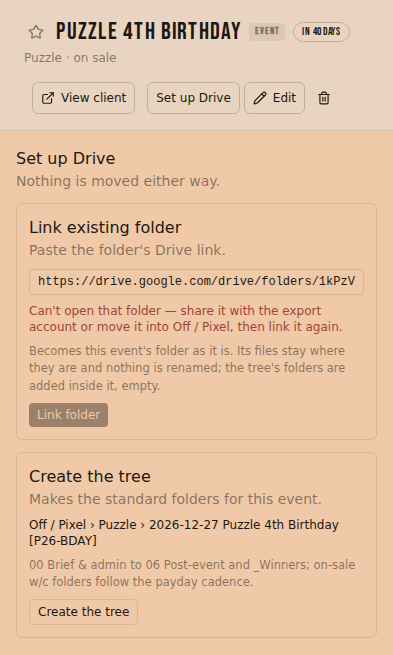
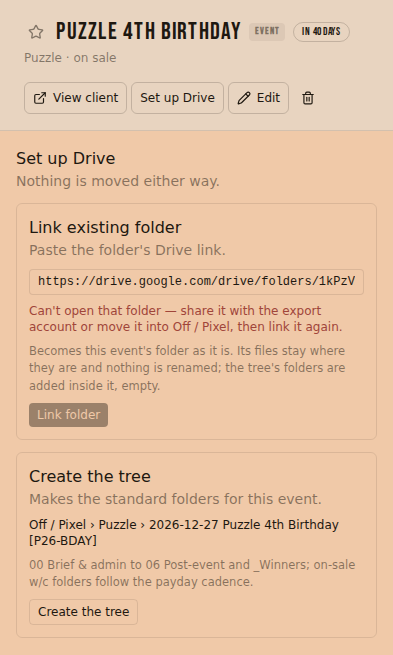
Even the 393 header and mount the live claim ladder (#1149)
* Even out the 393 event header and mount the live claim ladder.

Date inputs in the frame runner follow en-GB, and the offer card uses the operator's name rather than a user id.

* Render the frame runner in en-GB so a date input shows the day first.

A page locale left the native date field on mm/dd/yyyy; the job locale is what Chromium uses.

* Keep the frame baselines with the live ladder and the en-GB date field.

The 393 event header, the claim ladder and the offer sheet's date input are the rows that moved.

* Draw Puzzle's own ladder, with the record's sub-lines and a counted footer.

AB5 was mounting the seed, so the header said Puzzle's own over a 7-day ladder, and the footer counted 13 of 14 rows.

* Keep the AB5 baselines with Puzzle's ladder.

The pair of Ubuntu runs matched, and both widths grew to fit the sub-lines.

---------

Changed region(s): [[0.0611, 0.1221, 0.855, 0.1832]]

diff --git a/lib/releases/__tests__/bank.test.ts b/lib/releases/__tests__/bank.test.ts
@@ -6,10 +6,11 @@ import { boardCounts, makeMissing, type BoardCell } from "../board.ts";
 import { backfillReleases, deriveSaleDates } from "../dates.ts";
 import { applyCount, applyState, freshness, releaseHeadline } from "../entry.ts";
 import { defaultLadder, puzzleLadder } from "../ladder.ts";
+import { presentLadder } from "../present.ts";
 import type { Release, TicketWarning } from "../types.ts";
 import { approveWarning, backToHeld, claimWindow, notNow, paydayPush, todaySentence } from "../windows.ts";
 import { countdownRung, lineupRung, percentStandIn, priceRiseRung, velocityRung } from "../derived.ts";
-import { OFFER_MARKER, OFFER_ON_LADDER, OFFER_REFUSAL, offerPrices, offerRefusal, offerWords } from "../offers.ts";
+import { OFFER_MARKER, OFFER_ON_LADDER, OFFER_REFUSAL, enteredByLine, enteredByWhen, offerPrices, offerRefusal, offerWords, operatorDisplayName } from "../offers.ts";
 import { liveClaimLine, rollCallWords, soldOutLine } from "../roll-call.ts";
 import { isBackfilled, mountsReleases, panelFigure, todayListsEvent, warningCell } from "../visibility.ts";
 import { derivedProposals, nextRung, proposalOnChange } from "../../ticket-warnings/next-rung.ts";
@@ -416,6 +417,16 @@ describe("offers, cancelled, backfilled", () => {
     assert.deepEqual(offerPrices({ today: 10, parts: 3 }), [10]);
   });
 
+  it("names the operator on the offer card and never the user id", () => {
+    const at = new Date("2026-11-08T14:10:00Z");
+    const id = "11111111-1111-1111-1111-111111111111";
+    assert.equal(enteredByLine("Matas", at), "entered by Matas, 8 Nov");
+    assert.equal(enteredByWhen(at).wide, "Sun 8 Nov 14:10");
+    assert.equal(enteredByLine(id, at), null);
+    assert.equal(operatorDisplayName({ id, user_metadata: { full_name: "Matas" } }), "Matas");
+    assert.equal(operatorDisplayName({ id, user_metadata: { name: id } }), null);
+  });
+
   it("keeps a cancelled event's rows and mounts no panel and no Today row", () => {
     const rows = [release({ name: "General sale", position: 1, state: "on_sale" })];
     assert.equal(mountsReleases("cancelled"), false);
@@ -517,5 +528,22 @@ describe("approval, windows, the board", () => {
     assert.deepEqual(makeMissing(cells), { made: 0, said: "Nothing to make. The missing cells need a piece." });
     const ready = [{ status: "missing" as const, makeable: true }, { status: "missing" as const, makeable: false }];
     assert.equal(makeMissing(ready).made, 1);
+  });
+
+  it("AB5 draws Puzzle's ladder with the record's sub-lines and a quoted claim on every rung", () => {
+    const rows = presentLadder(puzzleLadder());
+    assert.equal(rows.length, 14);
+    assert.equal(rows[1]!.trigger, "Selling fast for 5+ days, no count");
+    assert.equal(rows[1]!.detail, "Puzzle: 5 days (default 7)");
+    assert.equal(rows[0]!.detail, "from the release time, or a read / entry");
+    assert.equal(rows[2]!.detail, "when a count and a capacity exist");
+    assert.equal(rows.find((row) => row.trigger.startsWith("2+ releases"))!.detail, "roll-call · preferred over the % rung");
+    assert.equal(rows.find((row) => row.trigger.startsWith("Sold now"))!.detail, "sales velocity · needs two counts · window and count per client");
+    assert.equal(rows.find((row) => row.trigger === "State final X")!.note, "X from the page or the count, never typed");
+    assert.equal(rows.find((row) => row.trigger.startsWith("Next release"))!.note, "qualifier \"LAST CHANCE AT £{n}\" when the release has a price");
+    assert.equal(rows.at(-1)!.note, "refreshes the lineup slot and every ALONGSIDE: list");
+    assert.ok(rows.every((row) => row.claim.includes("\"")));
+    assert.equal(presentLadder(defaultLadder())[1]!.trigger, "Selling fast for 7+ days, no count");
+    assert.equal(presentLadder(defaultLadder())[1]!.detail, undefined);
   });
 });

diff --git a/components/dashboard/asset-bank/surface.tsx b/components/dashboard/asset-bank/surface.tsx
@@ -5,7 +5,7 @@ import { useState, type FormEvent, type ReactNode } from "react";
 import { driveFileUrl } from "@/lib/drive/panel";
 import { Button } from "@/components/ui/button";
 import { isInPaydayWindow } from "@/lib/dashboard/pacing";
-import { offerRefusal, offerWords, type OfferFigures, type OfferKind } from "@/lib/releases/offers";
+import { enteredByLine, enteredByWhen, offerRefusal, offerWords, type OfferFigures, type OfferKind } from "@/lib/releases/offers";
 import { paydayPush } from "@/lib/releases/windows";
 import { RELEASE_STATES, type ReleaseState } from "@/lib/releases/types";
 
@@ -341,12 +341,19 @@ function Piece() {
   );
 }
 
+const OFFER_ENTERED_AT = new Date("2026-11-08T14:10:00Z");
+
 export function ClaimCards({
   onCorrect,
+  enteredBy = "Matas",
 }: {
   onCorrect?: (state: ReleaseState) => void;
+  /** The operator's name. A user id is left off the card. */
+  enteredBy?: string | null;
 }) {
   const [correcting, setCorrecting] = useState(false);
+  const entered = enteredByLine(enteredBy, OFFER_ENTERED_AT);
+  const when = enteredByWhen(OFFER_ENTERED_AT);
   return (
     <div className="space-y-3">
       <p className="text-xs text-muted-foreground">
@@ -396,13 +403,13 @@ export function ClaimCards({
           </p>
           <p className="mt-1 hidden text-xs sm:block">
             <span className="text-muted-foreground">offer</span> payment plan · £10 today, 3 parts · until Fri 27 Nov{" "}
-            <span className="text-muted-foreground">entered by</span> Matas, Sun 8 Nov 14:10, from the Offers sheet
+            {entered && enteredBy ? <><span className="text-muted-foreground">entered by</span>{` ${enteredBy}, ${when.wide}, from the Offers sheet`}</> : null}
           </p>
           <p className="mt-1 hidden text-xs sm:block">
             <span className="text-muted-foreground">words</span> &quot;£10 TODAY&quot; / &quot;SPLIT THE REST IN 3&quot; · no scarcity words · £10 is a price the validator checks against the offer
           </p>
           <p className="mt-1 text-xs sm:hidden">
-            <span className="text-muted-foreground">entered by</span> Matas, 8 Nov · until 27 Nov
+            {entered && enteredBy ? <><span className="text-muted-foreground">entered by</span>{` ${enteredBy}, ${when.day} · until 27 Nov`}</> : null}
           </p>
           <p className="mt-1 hidden text-xs text-muted-foreground sm:block">No read makes an offer true, so there is no trigger line. Runs mid-month as content-led (A7) unless Matas sets a window. Formats: 4:5 and 1:1 statics (T2, the number on its own line at 1.5×).</p>
         </div>
@@ -852,14 +859,14 @@ export function ClaimLadder({ live, initial, resetTo, onReset }: { live?: boolea
                     <span className="hidden sm:inline">{row.claim}</span>
                   </div>
                 )}
-                {row.note ? <div className="mt-0.5 hidden text-[10.5px] text-muted-foreground sm:block">{row.note}</div> : null}
+                {row.note ? <div className="mt-0.5 text-[10.5px] text-muted-foreground">{row.note}</div> : null}
               </button>
             </div>
           ))}
         </div>
         <p className="mt-3 text-[11px] text-muted-foreground">
           <span className="hidden sm:inline">edit a cell to change Puzzle&apos;s ladder · every approved claim records which rung allowed it · offers are not rungs: see Offers</span>
-          <span className="sm:hidden">tap a cell to edit · 13 rungs · offers are not rungs</span>
+          <span className="sm:hidden">tap a cell to edit · {rows.length} rungs · offers are not rungs</span>
         </p>
       </section>
       <section className="hidden rounded-md border border-border bg-card p-4 sm:block">

diff --git a/lib/releases/present.ts b/lib/releases/present.ts
@@ -1,0 +1,70 @@
+import type { LadderRung } from "./types.ts";
+
+export type PresentedRung = {
+  trigger: string;
+  claim: string;
+  detail?: string;
+  narrowDetail?: string;
+  note?: string;
+  accent?: boolean;
+};
+
+function claimCell(rung: LadderRung): string {
+  if (rung.triggerKind === "roll_call" || rung.triggerValue === "roll_call") {
+    return "\"{sold-out releases} RELEASE SOLD OUT\" / \"{live release's claim}\"";
+  }
+  if (rung.triggerKind === "countdown_pct") return "\"LESS THAN 2 WEEKS TO GO\" / \"OVER 90% SOLD OUT\"";
+  return `"${rung.claimTemplate}"`;
+}
+
+function triggerLabel(rung: LadderRung): string {
+  if (rung.triggerKind === "roll_call" || rung.triggerValue === "roll_call") return "2+ releases sold out · 1 on sale or selling fast";
+  if (rung.triggerKind === "velocity") return `Sold now − sold ${rung.options.windowDays ?? 14} days ago ≥ ${rung.options.threshold ?? rung.triggerValue}`;
+  if (rung.triggerKind === "price_rise_date") return `Next release's list time within ${rung.options.days ?? 4} days`;
+  if (rung.triggerKind === "countdown_pct") return `Days to show ≤ ${rung.options.days ?? 14} · and the % rung's trigger met`;
+  if (rung.triggerKind === "lineup_add") return "A new row in the typed lineup";
+  if (rung.triggerKind === "count_pct") return `Actual ${rung.triggerValue}% sold`;
+  if (rung.triggerValue === "on_sale") return "Release list time passed · state on sale";
+  if (rung.triggerValue === "selling_fast") return `Selling fast for ${rung.options.days ?? 7}+ days, no count`;
+  if (rung.triggerValue === "final_x") return "State final X";
+  if (rung.triggerValue === "sold_out") return "State sold out";
+  if (rung.triggerKind === "page_remaining") return "The page shows remaining";
+  return rung.claimTemplate;
+}
+
+function withDetail(detail: string): Pick<PresentedRung, "detail" | "narrowDetail"> {
+  return { detail, narrowDetail: detail };
+}
+
+/** The record's sub-lines, on the live rung they describe. Both widths show them. */
+function rungCopy(rung: LadderRung): Pick<PresentedRung, "detail" | "narrowDetail" | "note" | "accent"> {
+  if (rung.triggerValue === "on_sale") return withDetail("from the release time, or a read / entry");
+  if (rung.triggerValue === "selling_fast" && (rung.options.days ?? 7) === 5) return withDetail("Puzzle: 5 days (default 7)");
+  if (rung.triggerKind === "count_pct" && rung.triggerValue === "50") return withDetail("when a count and a capacity exist");
+  if (rung.triggerValue === "final_x") return { note: "X from the page or the count, never typed" };
+  if (rung.triggerKind === "roll_call" || rung.triggerValue === "roll_call") {
+    return {
+      ...withDetail("roll-call · preferred over the % rung"),
+      note: "two lines · the names from the releases, in order · line 2 is the live release's own rung",
+      accent: true,
+    };
+  }
+  if (rung.triggerKind === "velocity") return withDetail("sales velocity · needs two counts · window and count per client");
+  if (rung.triggerKind === "price_rise_date") {
+    return {
+      ...withDetail("price increase on a date"),
+      note: "qualifier \"LAST CHANCE AT £{n}\" when the release has a price",
+    };
+  }
+  if (rung.triggerKind === "lineup_add") return { note: "refreshes the lineup slot and every ALONGSIDE: list" };
+  return {};
+}
+
+/** AB5's live ladder: Puzzle's wording, the record's sub-lines, every claim in quotes. */
+export function presentLadder(rungs: readonly LadderRung[]): PresentedRung[] {
+  return rungs.map((rung) => ({
+    trigger: triggerLabel(rung),
+    claim: claimCell(rung),
+    ...rungCopy(rung),
+  }));
+}

diff --git a/components/dashboard/asset-bank/live.tsx b/components/dashboard/asset-bank/live.tsx
@@ -2,10 +2,11 @@
 
 import { useState } from "react";
 
-import { ClaimLadder, ReleasesPanel, type LadderRow } from "@/components/dashboard/asset-bank/surface";
+import { ClaimLadder, ReleasesPanel } from "@/components/dashboard/asset-bank/surface";
 import { nextReleaseListAt } from "@/lib/releases/derived";
 import { rowsFromReleases } from "@/lib/releases/view";
 import { completeLadder, defaultLadder } from "@/lib/releases/ladder";
+import { presentLadder } from "@/lib/releases/present";
 import type { LadderRung, Release, ReleaseState } from "@/lib/releases/types";
 import { isBackfilled, mountsReleases } from "@/lib/releases/visibility";
 import { derivedProposals, nextRung, sellingFastDays, type DerivedContext } from "@/lib/ticket-warnings/next-rung";
@@ -92,39 +93,8 @@ export function LiveReleases({
   );
 }
 
-function claimCell(rung: LadderRung): string {
-  if (rung.triggerKind === "roll_call" || rung.triggerValue === "roll_call") {
-    return "\"{sold-out releases} RELEASE SOLD OUT\" / \"{live release's claim}\"";
-  }
-  return rung.claimTemplate;
-}
-
-function triggerLabel(rung: LadderRung): string {
-  if (rung.triggerKind === "roll_call" || rung.triggerValue === "roll_call") return "2+ releases sold out · 1 on sale or selling fast";
-  if (rung.triggerKind === "velocity") return `Sold now − sold ${rung.options.windowDays ?? 14} days ago ≥ ${rung.options.threshold ?? rung.triggerValue}`;
-  if (rung.triggerKind === "price_rise_date") return `Next release's list time within ${rung.options.days ?? 4} days`;
-  if (rung.triggerKind === "countdown_pct") return `Days to show ≤ ${rung.options.days ?? 14} · and the % rung's trigger met`;
-  if (rung.triggerKind === "lineup_add") return "A new row in the typed lineup";
-  if (rung.triggerKind === "count_pct") return `Actual ${rung.triggerValue}% sold`;
-  if (rung.triggerValue === "on_sale") return "Release list time passed · state on sale";
-  if (rung.triggerValue === "selling_fast") return `Selling fast for ${rung.options.days ?? 7}+ days, no count`;
-  if (rung.triggerValue === "final_x") return "State final X";
-  if (rung.triggerValue === "sold_out") return "State sold out";
-  if (rung.triggerKind === "page_remaining") return "The page shows remaining";
-  return rung.claimTemplate;
-}
-
 export function LiveLadder({ rungs }: { rungs: LadderRung[] }) {
-  const shown = completeLadder(rungs);
-  const initial: LadderRow[] = shown.map((rung) => ({
-    trigger: triggerLabel(rung),
-    claim: claimCell(rung),
-    accent: rung.triggerKind === "roll_call",
-  }));
-  const seed: LadderRow[] = defaultLadder().map((rung) => ({
-    trigger: triggerLabel(rung),
-    claim: claimCell(rung),
-    accent: rung.triggerKind === "roll_call",
-  }));
-  return <ClaimLadder live initial={initial.length ? initial : seed} resetTo={seed} />;
+  const shown = presentLadder(completeLadder(rungs));
+  const seed = presentLadder(defaultLadder());
+  return <ClaimLadder live initial={shown.length ? shown : seed} resetTo={seed} />;
 }

diff --git a/lib/releases/offers.ts b/lib/releases/offers.ts
@@ -39,3 +39,33 @@ export function offerWords(kind: OfferKind, figures: OfferFigures): { lines: str
 export function offerPrices(figures: OfferFigures): number[] {
   return [figures.today, figures.price].filter((price): price is number => price != null);
 }
+
+const USER_ID = /^[0-9a-f]{8}-[0-9a-f]{4}-[0-9a-f]{4}-[0-9a-f]{4}-[0-9a-f]{12}$/i;
+
+/** The name on the offer card. A user id is never a name. */
+export function operatorDisplayName(user: { id?: string | null; user_metadata?: Record<string, unknown> | null }): string | null {
+  const meta = user.user_metadata ?? {};
+  for (const key of ["full_name", "name"]) {
+    const value = meta[key];
+    if (typeof value !== "string") continue;
+    const name = value.trim();
+    if (!name || name === user.id || USER_ID.test(name)) continue;
+    return name;
+  }
+  return null;
+}
+
+/** "8 Nov" and "Sun 8 Nov 14:10". London, so the card matches the sheet. */
+export function enteredByWhen(at: Date): { day: string; wide: string } {
+  const day = new Intl.DateTimeFormat("en-GB", { day: "numeric", month: "short", timeZone: "Europe/London" }).format(at);
+  const weekday = new Intl.DateTimeFormat("en-GB", { weekday: "short", timeZone: "Europe/London" }).format(at);
+  const time = new Intl.DateTimeFormat("en-GB", { hour: "2-digit", minute: "2-digit", hourCycle: "h23", timeZone: "Europe/London" }).format(at);
+  return { day, wide: `${weekday} ${day} ${time}` };
+}
+
+/** "entered by Matas, 8 Nov". Null when the only identity on hand is the user id. */
+export function enteredByLine(name: string | null | undefined, at: Date): string | null {
+  const who = name?.trim() ?? "";
+  if (!who || USER_ID.test(who)) return null;
+  return `entered by ${who}, ${enteredByWhen(at).day}`;
+}

diff --git a/components/dashboard/events/event-detail-header.tsx b/components/dashboard/events/event-detail-header.tsx
@@ -45,6 +45,8 @@ export function EventDetailHeader(props: {
     lab?.paydayLabel ? `Next payday ${lab.paydayLabel}.${lab.daysToEvent == null ? "" : ` ${lab.daysToEvent} days to the event.`}` : null,
   ].filter(Boolean).join(" · ");
   const label = "shrink-0 whitespace-nowrap max-[700px]:px-2";
+  // The link is only the hit target. Padding stays on the button, or the
+  // 393 row gains about 8px between View client and Drive folder.
   return (
     <header className="border-b border-border bg-card px-6 py-4">
       <div className="mx-auto flex max-w-6xl items-center justify-between gap-4 max-[700px]:flex-col max-[700px]:items-stretch">
@@ -89,7 +91,7 @@ export function EventDetailHeader(props: {
         <div className="flex items-center gap-2 max-[700px]:flex-nowrap max-[700px]:gap-1">
           <InsightsPill />
           {event.client ? (
-            <Link href={`/clients/${event.client.id}`} className={label}>
+            <Link href={`/clients/${event.client.id}`} className="shrink-0 whitespace-nowrap">
               <Button variant="outline" size="sm" className={label}>
                 <ExternalLink className="h-3.5 w-3.5" />
                 View client

diff --git a/app/api/events/[id]/offers/route.ts b/app/api/events/[id]/offers/route.ts
@@ -1,7 +1,7 @@
 import { NextResponse } from "next/server";
 
 import { insertOffer } from "@/lib/db/releases";
-import { offerRefusal, offerWords, type OfferFigures, type OfferKind } from "@/lib/releases/offers";
+import { offerRefusal, offerWords, operatorDisplayName, type OfferFigures, type OfferKind } from "@/lib/releases/offers";
 import { createClient } from "@/lib/supabase/server";
 
 const KINDS = new Set<OfferKind>(["payment_plan", "group", "early_entry"]);
@@ -52,5 +52,5 @@ export async function POST(request: Request, context: { params: Promise<{ id: st
     const message = err instanceof Error ? err.message : "Could not save the offer.";
     return NextResponse.json({ error: message }, { status: 500 });
   }
-  return NextResponse.json({ ok: true });
+  return NextResponse.json({ ok: true, enteredBy: operatorDisplayName(user) });
 }

diff --git a/components/dashboard/asset-bank/frame-mount.tsx b/components/dashboard/asset-bank/frame-mount.tsx
@@ -1,4 +1,6 @@
-import { AssetBoard, ClaimCards, ClaimLadder, OffersSheet, PaydayCalendar, ReleasesPanel } from "@/components/dashboard/asset-bank/surface";
+import { LiveLadder } from "@/components/dashboard/asset-bank/live";
+import { AssetBoard, ClaimCards, OffersSheet, PaydayCalendar, ReleasesPanel } from "@/components/dashboard/asset-bank/surface";
+import { puzzleLadder } from "@/lib/releases/ladder";
 import { AB1_CLAIMS, AB1_ROWS, AB1B_ROWS } from "@/scripts/plan-frames/bank-fixtures";
 
 /** An AB frame. Fixture only: nothing here fetches. */
@@ -61,7 +63,7 @@ export function AssetBankFrameMount({ id }: { id: string }) {
             <span>D2C</span>
             <span>Campaigns</span>
           </p>
-          <ClaimLadder />
+          <LiveLadder rungs={puzzleLadder()} />
         </div>
       ) : null}
       {id === "AB6" ? (

diff --git a/docs/session-logs/pr-1149-cursor-design-queue-1.md b/docs/session-logs/pr-1149-cursor-design-queue-1.md
@@ -1,0 +1,27 @@
+# Session log
+
+## PR
+
+- **Number:** 1149
+- **URL:** https://github.com/matas-offpixel/meta-campaign-builder/pull/1149
+- **Branch:** `cursor/design-queue-1`
+
+## Summary
+
+The 393 event header keeps an even gap between View client, Drive folder and Edit. The frame runner uses en-GB so a date input reads dd/mm/yyyy. AB5 mounts Puzzle's live ladder, and the offer card names the operator.
+
+## Scope / files
+
+- `components/dashboard/events/event-detail-header.tsx` — the View client link no longer adds its own padding
+- `scripts/plan-frames/run.mjs` — locale en-GB
+- `components/dashboard/asset-bank/frame-mount.tsx` — AB5 uses `LiveLadder` with `puzzleLadder()`
+- `lib/releases/offers.ts` — the entered-by line, never a user id
+
+## Validation
+
+- [x] asset-bank tests
+- [x] frames AB 42728954711 / 42728958447 and CLS 42728963403 / 42728967569, pairs at 0
+
+## Notes
+
+The extra space on the 393 row was the View client link's padding (8px), sitting in the flex gap beside the Drive button. The offer card already read "entered by Matas, 8 Nov"; the line now comes from the operator's name and refuses a user id. AB5 mounts Puzzle's 5-day ladder, with the record's sub-lines, a quoted claim on every rung, and a footer count taken from the rows. The frame job generates en_GB.UTF-8; a page locale alone left the date input on mm/dd/yyyy.
